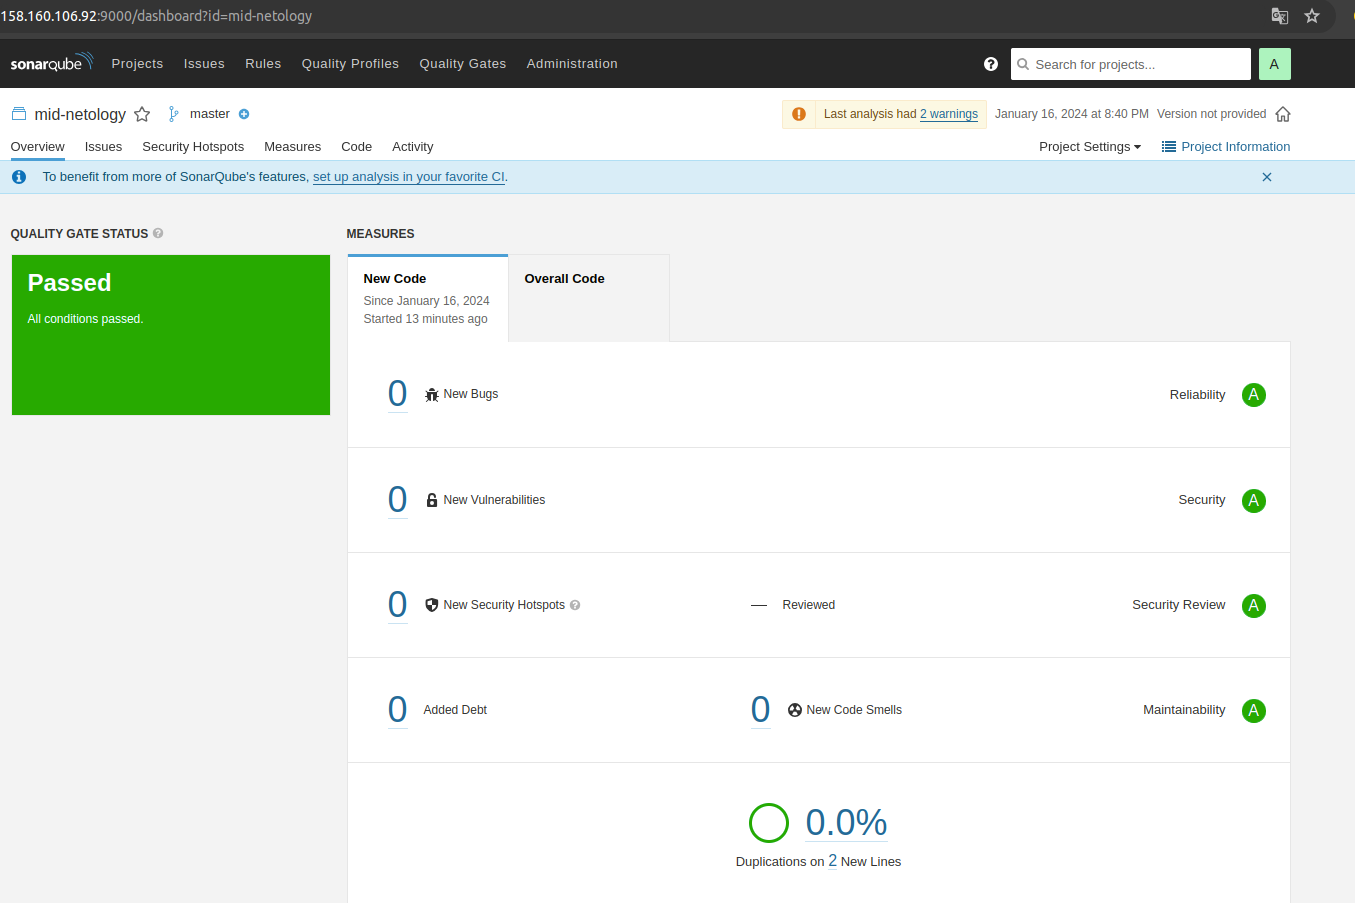
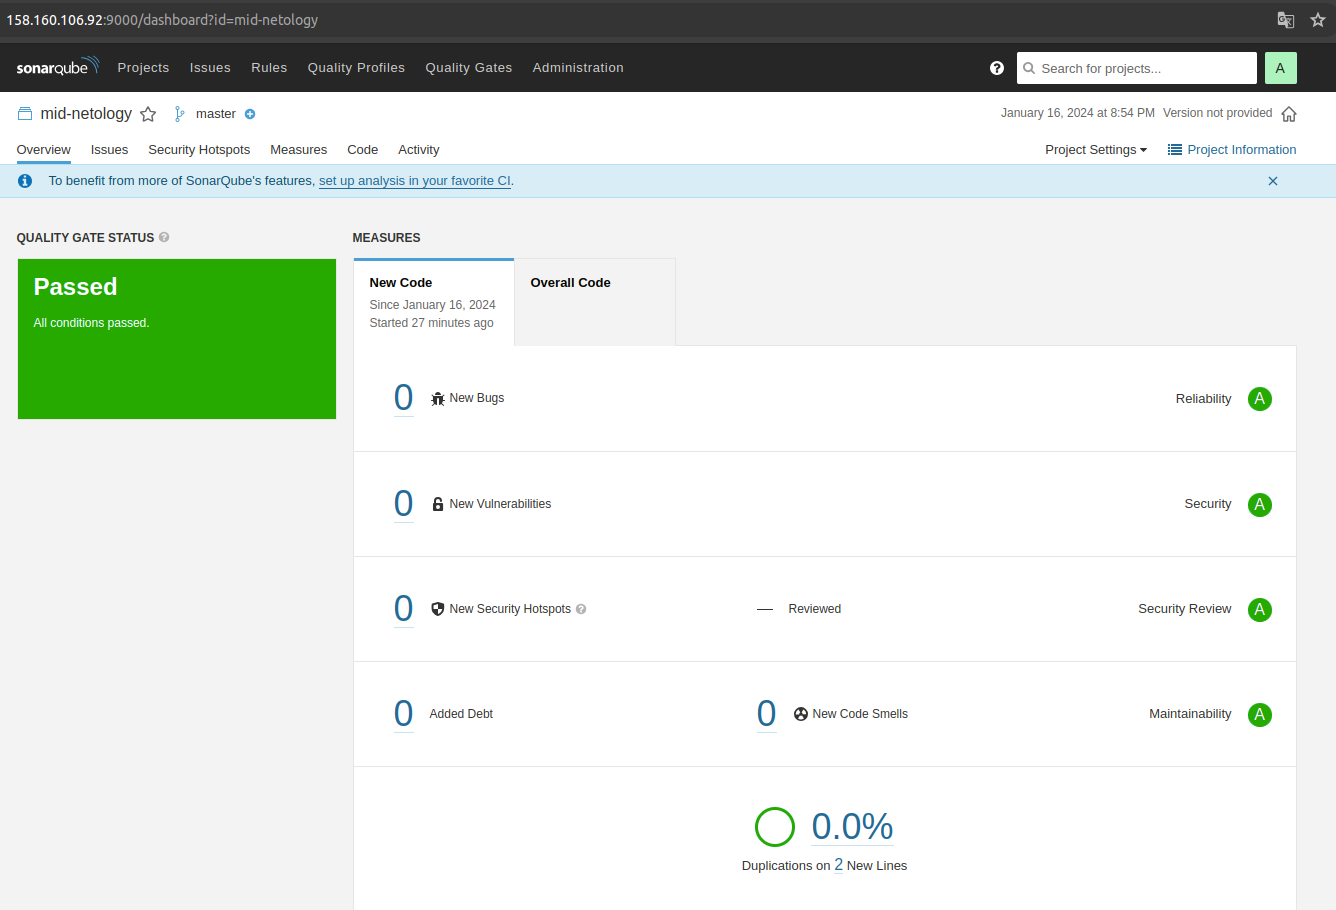
add sonarcube

diff --git a/09-ci-03-cicd/README.md b/09-ci-03-cicd/README.md
@@ -97,3 +97,28 @@ PLAY RECAP *********************************************************************
 nexus-01                   : ok=17   changed=15   unreachable=0    failed=0    skipped=2    rescued=0    ignored=0
 sonar-01                   : ok=34   changed=16   unreachable=0    failed=0    skipped=1    rescued=0    ignored=0
 ```
+
+
+## Знакомоство с SonarQube
+
+![sonar-bug](https://github.com/ivanmalyshev/mnt-homeworks/blob/postgres12/09-ci-03-cicd/sonar/sonar-bug.png)
+
+![sonar-fixbug](https://github.com/ivanmalyshev/mnt-homeworks/blob/postgres12/09-ci-03-cicd/sonar/sonar-fixbug.png)
+
+![sonar-fixbug](https://github.com/ivanmalyshev/mnt-homeworks/blob/postgres12/09-ci-03-cicd/sonar/warnings.png)
+
+Для фикса варнингов использовал
+```bash
+sonar-scanner  \
+-Dsonar.projectKey=mid-netology \
+-Dsonar.sources=. \
+-Dsonar.host.url=http://158.160.106.92:9000  \
+-Dsonar.login=3bc6951cd4eb3a56d03b8d0c187e48ec7e575312 \
+-Dsonar.coverage.exclusions=fail.py \
+-Dsonar.python.version=2.7,3.7 \
+-Dsonar.scm.disabled=true
+```
+Dsonar.python.version=2.7,3.7 - устанавливает точную версию интерпритатора
+
+Dsonar.scm.disabled=true - Отключение плагина SCM. Используется для сбора данных из системы контроля во время анализа кода
+
